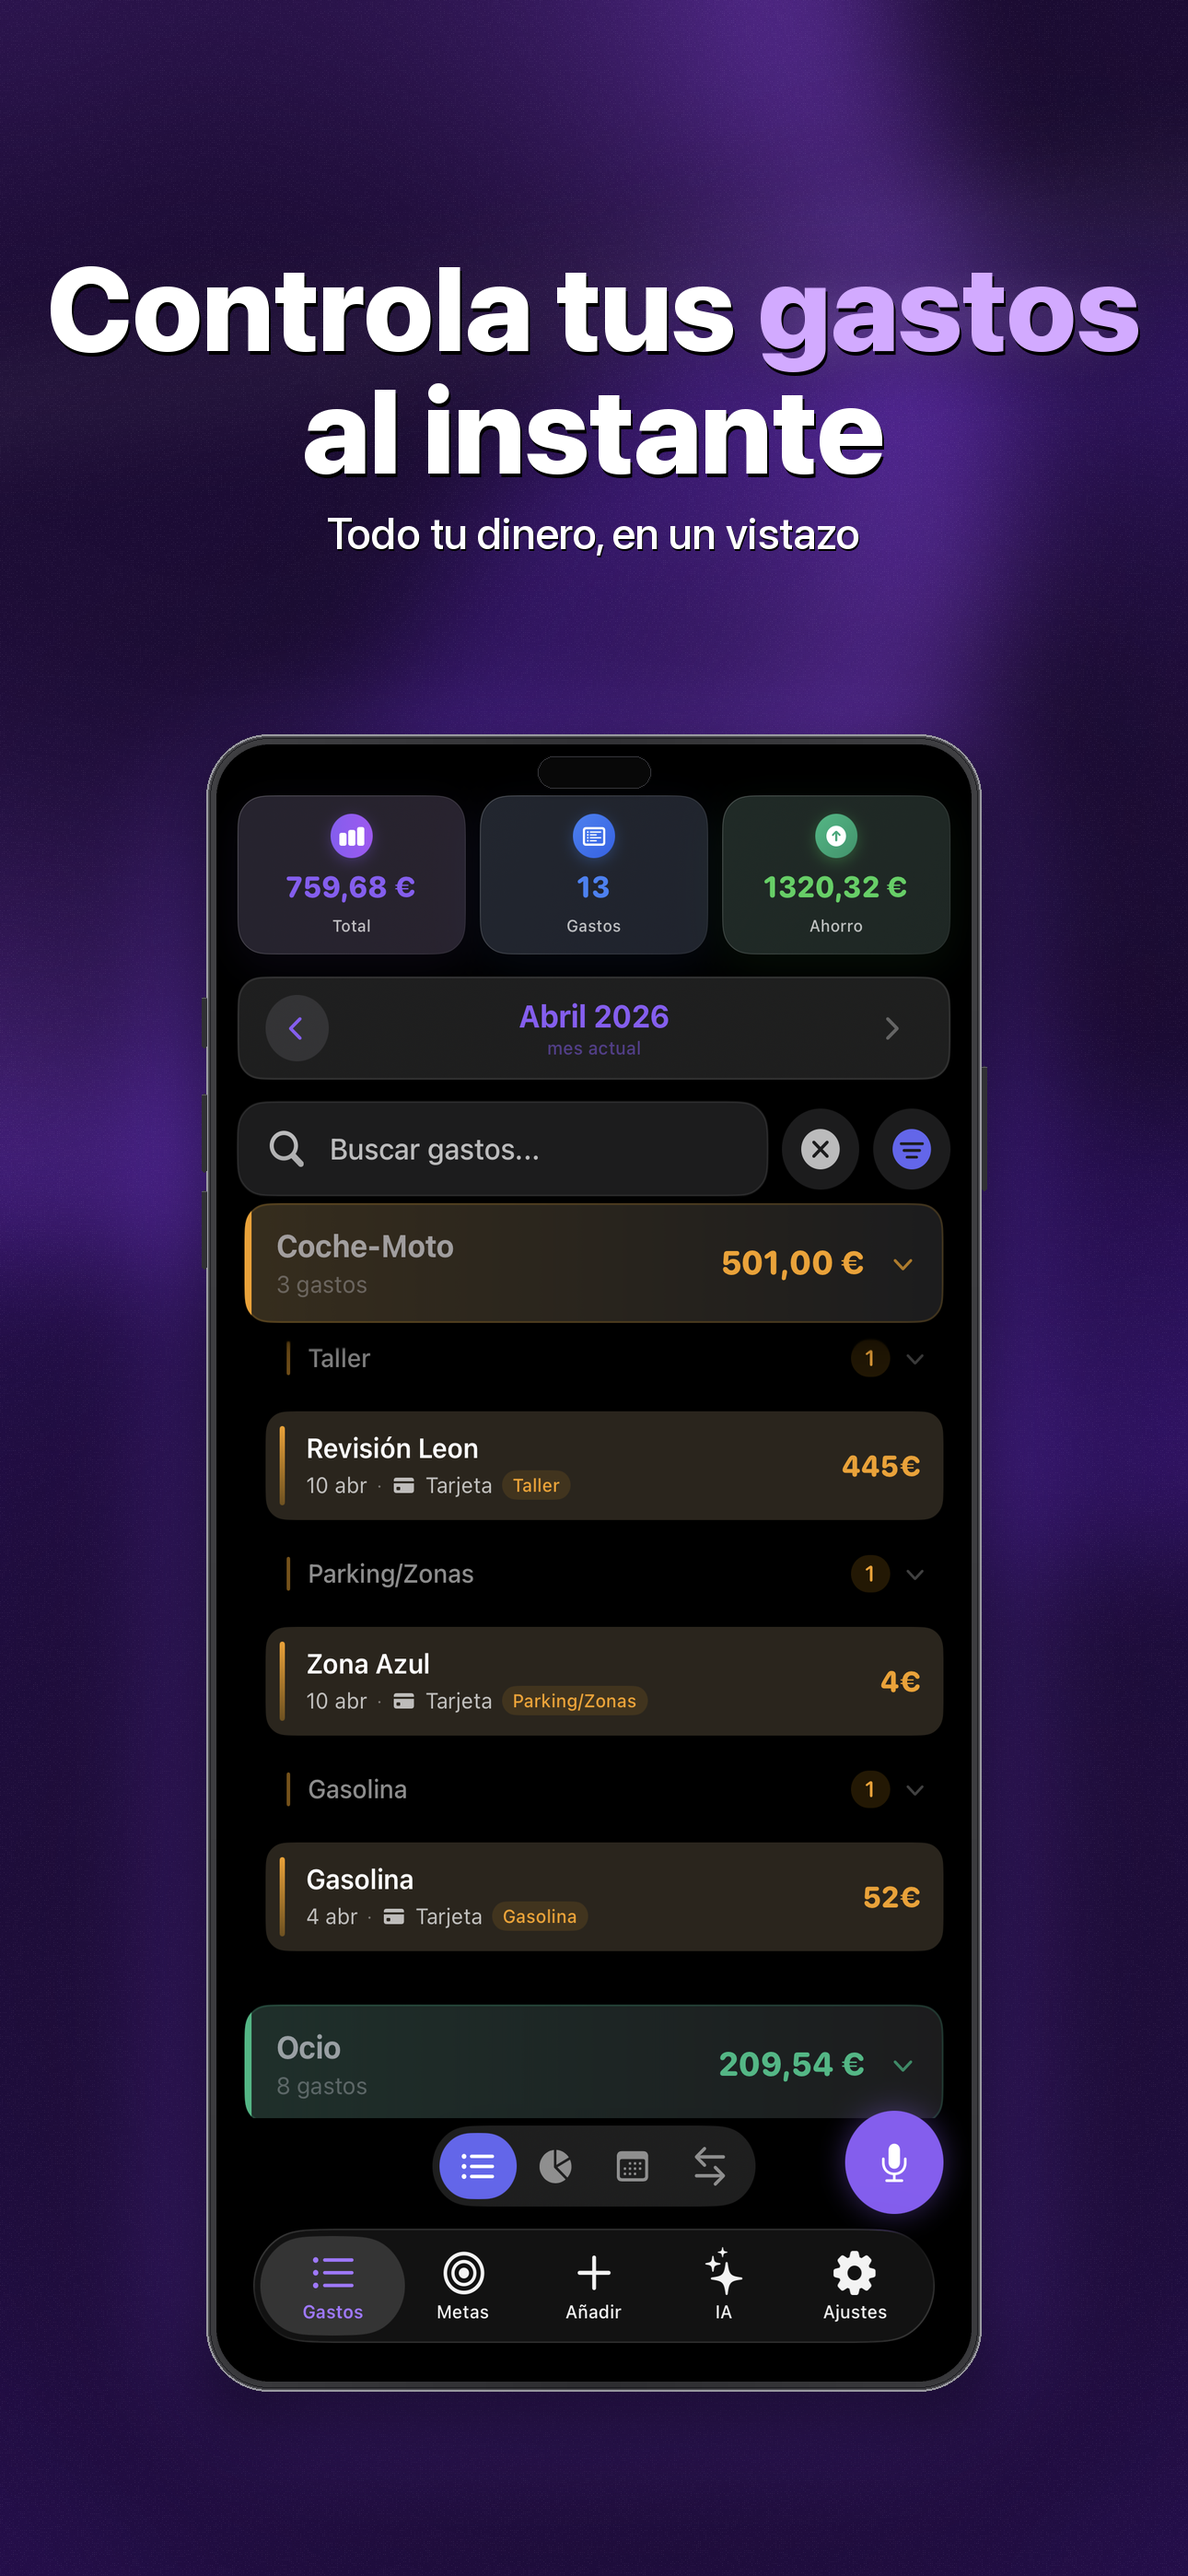
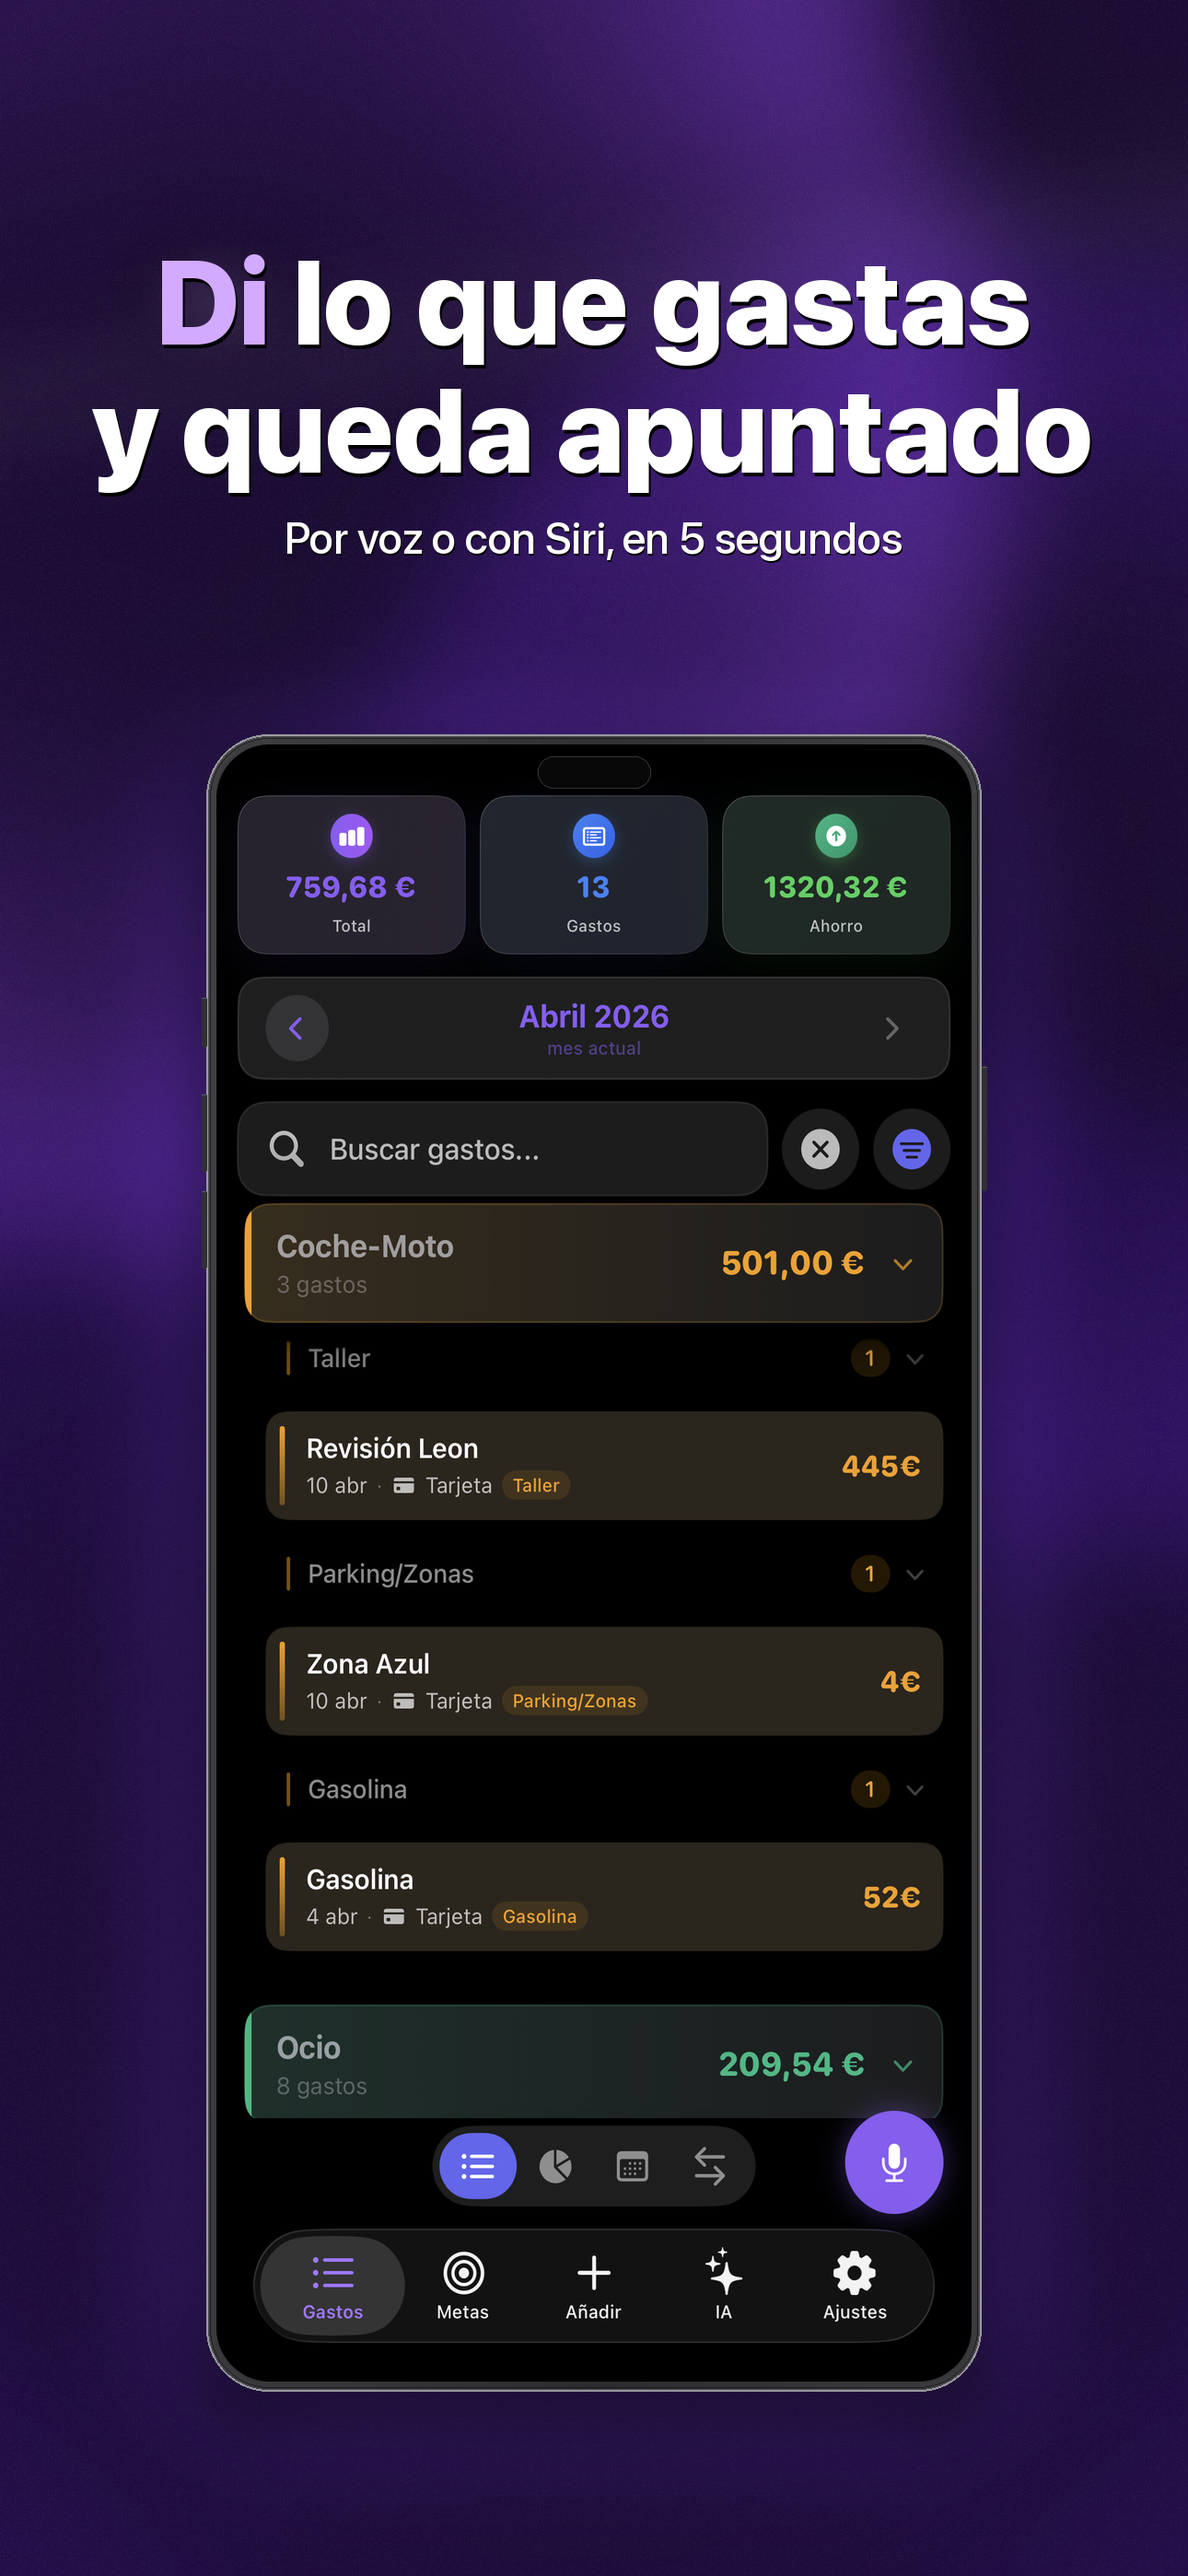
chore(aso): ficha y capturas centradas en voz + IA (#39)
Voz, Siri y categorización automática son lo único que ninguna de las
tres apps grandes de gastos ofrece, y estaban enterradas en la
descripción: ni en el subtítulo ni en las capturas.

- Subtítulo: "Apunta por voz con IA y ahorra" (30/30).
- Keywords reescritas sin repetir palabras del nombre ni del subtítulo,
  que App Store ya indexa; el hueco va a competidores y términos nuevos.
- Descripción arrancando por el gancho de voz.
- Ficha en-US creada (no existía).
- Primera captura = voz + Siri.

Se retira de la ficha la sección de la asesora IA: la función está
deshabilitada en la app. La captura 04 ya no habla de IA, pero su imagen
de origen sigue siendo esa pantalla y hay que sustituirla antes de subir.

docs/ASO-y-lanzamiento.md recoge lo que queda por hacer a mano.

Changed region(s): [[0.031, 0.0933, 0.9612, 0.2178]]

diff --git a/scripts/generate_mockups.py b/scripts/generate_mockups.py
@@ -96,9 +96,11 @@ MOCKUPS = [
     {
         "input": "1_home.png",
         "output": "mockup_01_home.png",
-        "headline": "Controla tus gastos\nal instante",
-        "accent": "gastos",
-        "subtitle": "Todo tu dinero, en un vistazo",
+        # Primera captura = el diferenciador (voz + Siri). Ninguna de las apps
+        # grandes de gastos lo ofrece y es el motivo nº1 de abandono (#39).
+        "headline": "Di lo que gastas\ny queda apuntado",
+        "accent": "Di",
+        "subtitle": "Por voz o con Siri, en 5 segundos",
         "bg_base": (28, 12, 52),
         "blobs": [
             (0.18, 0.18, 900, (155, 80, 255), 160),
@@ -107,14 +109,14 @@ MOCKUPS = [
         ],
         "accent_color": (210, 170, 255),
         "shadow_tint": (120, 60, 230),
-        "chip": {"emoji": "💸", "text": "Gasto añadido", "side": "left"},
+        "chip": {"emoji": "🎙", "text": "\"20 € en gasolina\"", "side": "left"},
     },
     {
         "input": "2_chart.png",
         "output": "mockup_02_chart.png",
-        "headline": "Visualiza en qué\ngastas más",
-        "accent": "más",
-        "subtitle": "Gráficos claros e intuitivos",
+        "headline": "Mira en qué\nse te va el mes",
+        "accent": "mes",
+        "subtitle": "Pincha una categoría y ve el detalle",
         "bg_base": (8, 18, 55),
         "blobs": [
             (0.22, 0.20, 900, (60, 140, 255), 160),
@@ -144,9 +146,9 @@ MOCKUPS = [
     {
         "input": "4_ai.png",
         "output": "mockup_04_ai.png",
-        "headline": "Tu asesora\nfinanciera con IA",
-        "accent": "IA",
-        "subtitle": "Clara analiza tus datos reales",
+        "headline": "Tus gastos fijos,\nen piloto automático",
+        "accent": "automático",
+        "subtitle": "Suscripciones y recibos, sin olvidos",
         "bg_base": (30, 10, 60),
         "blobs": [
             (0.20, 0.18, 900, (190, 100, 255), 160),
@@ -155,7 +157,7 @@ MOCKUPS = [
         ],
         "accent_color": (220, 175, 255),
         "shadow_tint": (150, 70, 240),
-        "chip": {"emoji": "✨", "text": "Clara IA", "side": "left"},
+        "chip": {"emoji": "🔁", "text": "Cada mes solo", "side": "left"},
     },
 ]
 

diff --git a/docs/ASO-y-lanzamiento.md b/docs/ASO-y-lanzamiento.md
@@ -1,0 +1,116 @@
+# Clarity — ASO, monetización y lo que queda por hacer a mano
+
+Resultado de los issues [#39](https://github.com/idanidev/Clarity/issues/39) y
+[#40](https://github.com/idanidev/Clarity/issues/40). Todo lo que se podía
+resolver con código ya está en el repo; aquí queda lo que solo puedes hacer tú
+desde App Store Connect o desde Xcode.
+
+## 1. Ficha de la App Store
+
+Los textos ya están escritos en `fastlane/metadata/`. `es-ES` actualizado y
+`en-US` creado desde cero (antes no existía).
+
+| Campo | Valor nuevo |
+|---|---|
+| Subtítulo ES | `Apunta por voz con IA y ahorra` (30/30 caracteres) |
+| Keywords ES | `monefy,fintonic,wallet,hucha,deudas,suscripcion,recurrente,nomina,siri,dinero,widget,finanzas,cuenta` (100/100) |
+| Subtítulo EN | `Log by voice with AI, save` |
+| Descripción | Arranca con el gancho de voz, no con "app simple y bonita" |
+
+Criterio de las keywords: no repiten ninguna palabra del nombre
+(`Clarity: Gastos y Presupuesto`) ni del subtítulo, porque App Store ya indexa
+esas. Por eso desaparecen `voz`, `ahorrar` y `presupuesto` del campo: ya están
+cubiertas por título y subtítulo, y el hueco se aprovecha para competidores
+(`monefy`, `fintonic`, `wallet`) y términos nuevos (`dinero`, `cuenta`).
+
+**Subir con:** `bundle exec fastlane deliver --skip_binary_upload` o a mano.
+
+## 2. Capturas
+
+`scripts/generate_mockups.py` regenerado. La primera captura ya es la del gancho
+de voz + Siri, que es lo que te separa de Monefy y compañía.
+
+- 01 — "Di lo que gastas y queda apuntado" / Por voz o con Siri, en 5 segundos
+- 02 — "Mira en qué se te va el mes" / Pincha una categoría y ve el detalle
+- 03 — "Ahorra con objetivos claros"
+- 04 — "Tus gastos fijos, en piloto automático"
+
+**Ojo con la 04:** la captura de origen (`4_ai.png`) es de la pantalla de la
+asesora IA, que **está deshabilitada en la app**. El texto ya no habla de IA,
+pero la imagen sigue siendo esa pantalla. Antes de subir, sustituye
+`marketing/screenshots/input/4_ai.png` por una captura de Gastos Recurrentes y
+vuelve a lanzar el script. Enseñar una función que la app no tiene es
+incumplimiento de la guideline 2.3.
+
+Por el mismo motivo se ha quitado de la descripción la sección
+`ASISTENTE IA "CLARA"`.
+
+Para llegar a 8-10 capturas (el máximo, y sube conversión) faltan capturas
+nuevas del simulador: modo regalo, detalle de categoría en tabla, widget,
+recordatorios y racha. El generador ya las monta en cuanto dejes los PNG en
+`marketing/screenshots/input/`.
+
+Falta también el **vídeo de preview**: hay que grabarlo, no se puede generar.
+
+## 3. Reseñas
+
+`ReviewRequestManager` ya pide la reseña con `AppStore.requestReview`:
+
+- a partir de la 3ª sesión,
+- después de guardar un gasto (momento de éxito, nunca al abrir),
+- una sola vez por versión y como mucho 3 al año.
+
+No hay nada que configurar. Se dispara solo.
+
+## 4. Clarity Pro — lo que falta
+
+El código está completo (`Clarity/Features/Subscription/`) pero **el paywall
+llega apagado**: `ProConfig.paywallEnabled` lee
+`UserDefaults` → `pro.paywallEnabled`, que por defecto es `false`. Mientras siga
+así, `isPro` devuelve `true` para todo el mundo y la app se comporta igual que
+hoy. Nadie pierde funciones por sorpresa.
+
+Para encenderlo:
+
+1. Crea los productos en App Store Connect con estos IDs exactos:
+   - `com.idanidev.clarity.pro.monthly`
+   - `com.idanidev.clarity.pro.yearly`
+   - `com.idanidev.clarity.pro.lifetime`
+2. Añade la capability **In-App Purchase** al target en Xcode.
+3. Actualiza la descripción: ahora dice "Sin suscripción obligatoria" y "Sin
+   pantallas de upgrade molestas", y dejaría de ser cierto.
+4. Pon el flag a `true` (`ProConfig.setPaywallEnabled(true)`).
+
+Límites del plan gratuito, todos en `ProLimits`: 30 gastos por voz al mes.
+Al agotarse se abre el paywall con el motivo `voiceLimit`. La exportación a CSV
+también queda detrás de Pro.
+
+Para probar sin App Store Connect: `Clarity.storekit` está en la raíz con los
+tres productos y una semana de prueba en el anual. Actívalo en Xcode →
+Edit Scheme → Run → Options → StoreKit Configuration.
+
+## 5. Analytics
+
+`AnalyticsService` emite los eventos (`onboarding_completed`, `expense_added`
+con `method`, `paywall_shown`, `purchase_completed`, `review_prompted`,
+`debt_settled`) y calcula en local la retención D1/D7/D30 y la métrica norte
+(`isHabitualUser` = 3+ días con gasto en los últimos 7).
+
+Por defecto solo escribe en la consola unificada de Apple: **no sale ni un dato
+del dispositivo**. Para mandarlos a Firebase:
+
+1. Xcode → Package Dependencies → `firebase-ios-sdk` → añade el producto
+   **FirebaseAnalytics** al target Clarity.
+2. Ya está: `FirebaseAnalyticsSink` está detrás de
+   `#if canImport(FirebaseAnalytics)` y se engancha solo al arrancar.
+
+**Antes de subir una build con Analytics enlazado** hay que declarar la recogida
+de datos en la ficha de privacidad de App Store Connect y añadir las entradas
+correspondientes a `PrivacyInfo.xcprivacy`. Esa declaración la tienes que firmar
+tú; por eso el enlace del paquete se ha dejado sin hacer.
+
+## 6. Distribución (nada de esto es código)
+
+- Vídeo de "20 euros en gasolina" → gasto categorizado solo. Es el gancho más
+  visual que tienes y sirve igual para TikTok, Reels y Shorts.
+- Reddit: r/espana, r/FinanzasPersonales.
